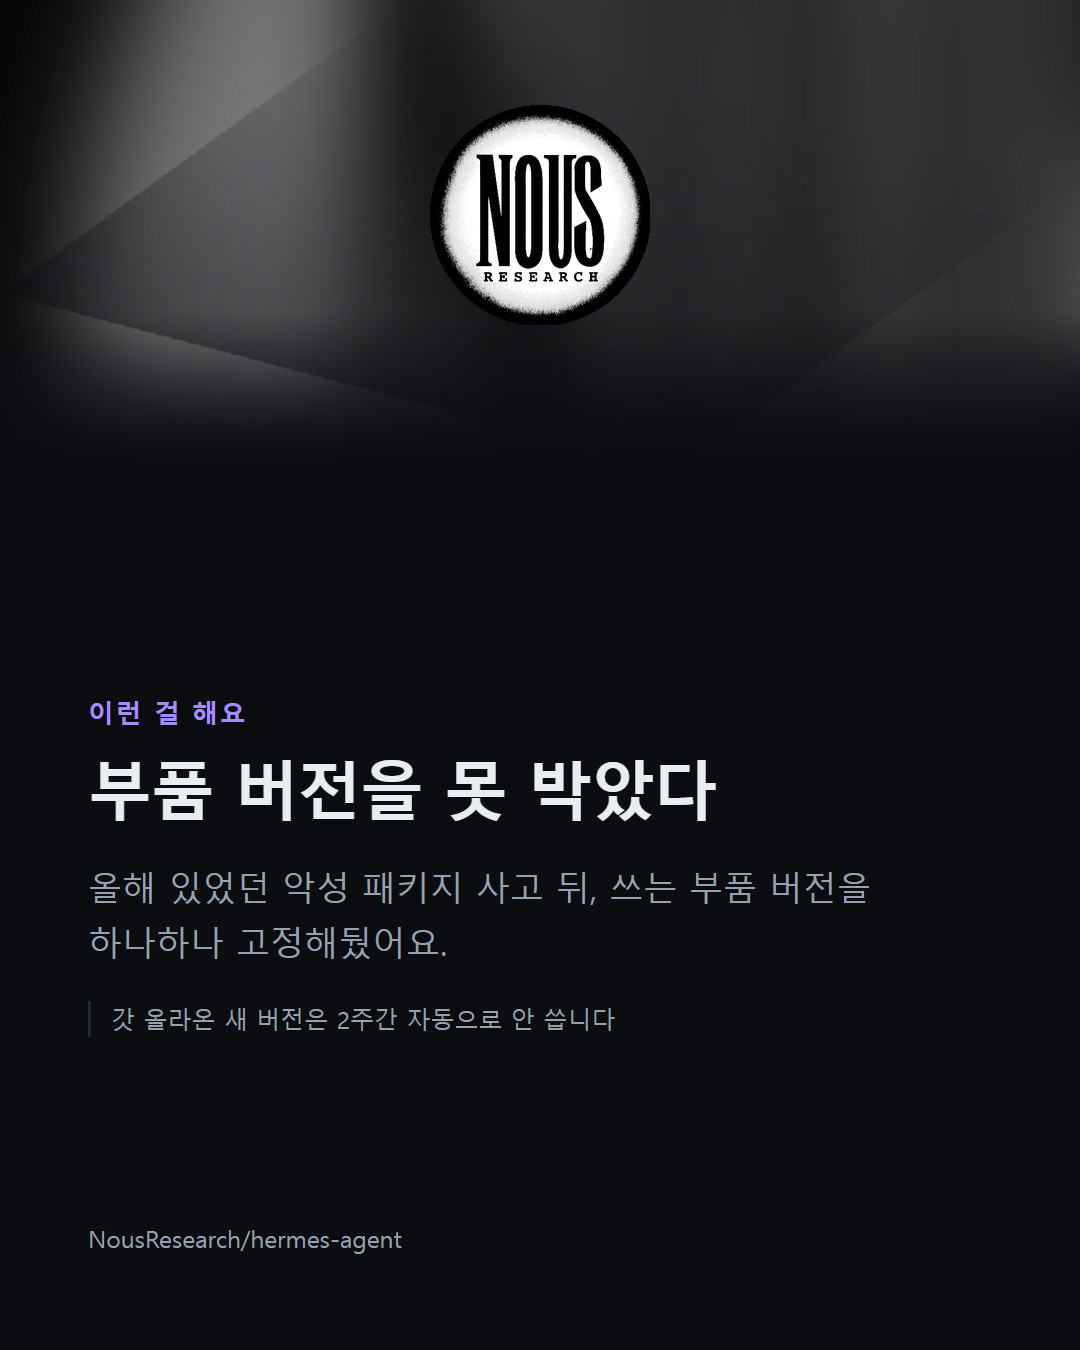
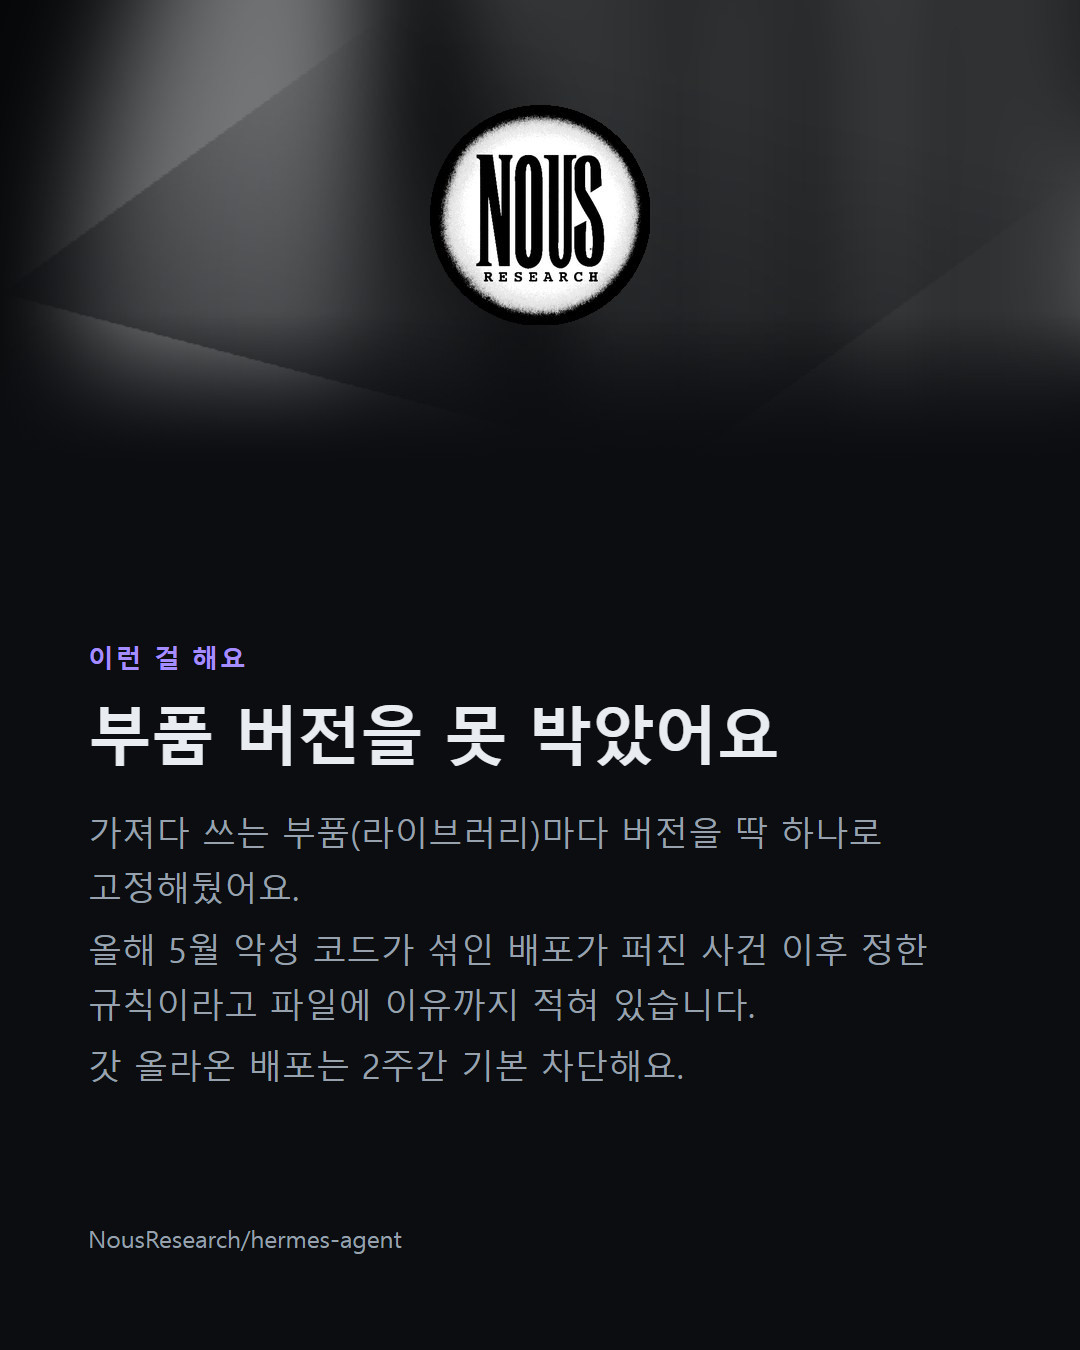
fix(render): 본문을 문장 단위로 줄바꿈하고 분량 하한을 도입
두 문제가 연결돼 있었다. 본문이 한두 문장뿐이라 카드가 휑했고, 그 짧은 두
문장이 한 줄에 걸치면서 뒤 문장이 줄 끝에서 시작해 어정쩡하게 잘렸다
("…들어갔어요. 웹 검색은" 에서 줄바꿈).

줄바꿈: 문장마다 블록을 준다. 긴 문장은 자기 블록 안에서 자연스럽게 감기고
다음 문장은 항상 새 줄에서 시작한다. 분리할 때 앞 글자가 숫자면 자르지 않는다 —
v0.20.4 나 23.4만 의 소수점에서 끊기면 숫자가 갈라진다.

분량: 상한(90자)이 문제가 아니라 하한이 없어서 짧았다. 85~150자, 2~3문장으로
바꾸고 프롬프트와 검증기 양쪽에 넣었다. 커버는 하한에서 제외한다.

결과: 전 카드가 100~128자, 2~3문장. 렌더 경고 0건.

테스트 155개 통과 (문장 분리 7개 포함 — 소수점 오분리 회귀 방지).

Changed region(s): [[0.0611, 0.4667, 0.8556, 0.8089]]

diff --git a/agent/compose.py b/agent/compose.py
@@ -70,6 +70,10 @@ SYSTEM_PROMPT = """\
 6. **말투는 친구에게 설명하듯.** "~한다" 보다 "~해요/~합니다" 가 낫고,
    질문을 던져도 좋다. 다만 호들갑은 떨지 마라.
 
+7. **본문은 2~3문장으로 채워라.** 한 문장만 쓰면 카드가 휑하고 설명도 부족하다.
+   보통 "무엇인지" 한 문장, "그래서 뭐가 좋은지/왜 그런지" 한두 문장이면 된다.
+   다만 채우려고 같은 말을 반복하거나 없는 사실을 만들지는 마라.
+
 ## 쉽게 쓰되 틀리게 쓰지 마라
 
 이게 제일 중요하다. 쉽게 만들려고 **사실을 바꾸거나 지어내면 안 된다.**
@@ -117,7 +121,8 @@ async def _run_async(config: Config, run_date: str, dry_run: bool) -> CardDeckFi
     cfg = config.section("compose")
 
     max_title = int(cfg.get("max_title_chars", 24))
-    max_body = int(cfg.get("max_body_chars", 90))
+    min_body = int(cfg.get("min_body_chars", 85))
+    max_body = int(cfg.get("max_body_chars", 150))
     max_tags = int(cfg.get("max_hashtags", 30))
     max_code_lines = int(cfg.get("max_code_lines", 3))
     max_code_chars = int(cfg.get("max_code_line_chars", 52))
@@ -129,7 +134,8 @@ async def _run_async(config: Config, run_date: str, dry_run: bool) -> CardDeckFi
         log.warning("근거 부족으로 제외된 카드: %s", ", ".join(dropped))
 
     base_prompt = _build_prompt(
-        research, roles, max_title, max_body, max_tags, max_code_lines, max_code_chars, tone
+        research, roles, max_title, min_body, max_body, max_tags,
+        max_code_lines, max_code_chars, tone
     )
 
     feedback = ""
@@ -150,7 +156,8 @@ async def _run_async(config: Config, run_date: str, dry_run: bool) -> CardDeckFi
             log.info("자동 보정: %s", note)
 
         violations = _validate(
-            payload, roles, max_title, max_body, max_tags, max_code_lines, max_code_chars
+            payload, roles, max_title, max_body, max_tags,
+            max_code_lines, max_code_chars, min_body
         )
         if not violations:
             log.info("원고 검증 통과 (시도 %d회, $%.4f)", attempt, total_cost)
@@ -230,6 +237,7 @@ def _build_prompt(
     research: ResearchFile,
     roles: list[str],
     max_title: int,
+    min_body: int,
     max_body: int,
     max_tags: int,
     max_code_lines: int,
@@ -272,7 +280,8 @@ def _build_prompt(
 
 ## 하드 제약
 - title: {max_title}자 이하 (공백 포함)
-- body: {max_body}자 이하 (공백 포함)
+- body: **{min_body}~{max_body}자** (공백 포함). 2~3문장으로 채운다.
+  한 문장으로 끝내지 마라 — 카드가 휑해 보이고 설명도 부족하다.
 - code 는 quickstart 카드에만. {max_code_lines}줄 이하, 줄당 {max_code_chars}자 이하
   각 줄은 그 자체로 완전한 명령이어야 한다. 한 명령을 쪼개지 마라.
 - caption: {CAPTION_LIMIT}자 이하, 해시태그 미포함
@@ -387,6 +396,7 @@ def _validate(
     max_tags: int,
     max_code_lines: int = 3,
     max_code_line_chars: int = 52,
+    min_body: int = 0,
 ) -> list[str]:
     """위반을 사람이 읽을 수 있는 문장으로 모은다. 그대로 모델에 되돌려준다."""
     problems: list[str] = []
@@ -407,6 +417,11 @@ def _validate(
         if len(card.body) > max_body:
             problems.append(
                 f"{where} body 가 {len(card.body)}자입니다 ({max_body}자 이하로 줄이세요)."
+            )
+        elif min_body and expected_role != "cover" and 0 < len(card.body) < min_body:
+            problems.append(
+                f"{where} body 가 {len(card.body)}자로 너무 짧습니다 "
+                f"({min_body}자 이상, 2~3문장). 한 문장으로 끝내지 마세요."
             )
         if not card.title.strip():
             problems.append(f"{where} title 이 비어 있습니다.")

diff --git a/tests/test_render.py b/tests/test_render.py
@@ -202,3 +202,37 @@ class TestNoPager:
         source = (paths.ROOT / "templates" / "card.html.j2").read_text(encoding="utf-8")
         assert "pager" not in source
         assert "class=\"dot" not in source
+
+
+class TestSentenceSplitting:
+    """한 줄에 두 문장이 걸치면 뒤 문장이 줄 끝에서 시작해 어정쩡하게 잘린다."""
+
+    def test_splits_on_sentence_end(self):
+        out = render_mod.split_sentences("수정 700건이 들어갔어요. 웹 검색도 됩니다.")
+        assert out == ["수정 700건이 들어갔어요.", "웹 검색도 됩니다."]
+
+    @pytest.mark.parametrize(
+        "text",
+        [
+            "v0.20.4 이후 하루 만에 들어갔어요.",   # 버전 번호의 점
+            "별 23.4만 개를 받았습니다.",           # 소수점
+        ],
+    )
+    def test_does_not_split_on_decimal_points(self, text):
+        """소수점에서 끊기면 '23.' / '4만 개' 처럼 숫자가 갈라진다."""
+        assert render_mod.split_sentences(text) == [text]
+
+    def test_handles_question_and_exclamation(self):
+        out = render_mod.split_sentences("이런 적 있죠? 요령이 사라집니다! 그래서 만들었어요.")
+        assert len(out) == 3
+
+    def test_single_sentence_stays_one_block(self):
+        assert render_mod.split_sentences("한 문장뿐입니다.") == ["한 문장뿐입니다."]
+
+    def test_empty_body_yields_nothing(self):
+        assert render_mod.split_sentences("") == []
+        assert render_mod.split_sentences("   ") == []
+
+    def test_trailing_sentence_without_period_survives(self):
+        out = render_mod.split_sentences("첫 문장입니다. 마침표 없는 끝")
+        assert out == ["첫 문장입니다.", "마침표 없는 끝"]

diff --git a/agent/render.py b/agent/render.py
@@ -14,6 +14,7 @@ from __future__ import annotations
 import base64
 import io
 import logging
+import re
 from datetime import datetime, timezone
 from pathlib import Path
 from typing import Any
@@ -58,6 +59,24 @@ OVERFLOW_JS = """
 
 class RenderError(RuntimeError):
     pass
+
+
+# 문장 경계: 마침표·물음표·느낌표 뒤 공백, 다만 **앞 글자가 숫자면 자르지 않는다.**
+# "v0.20.4 이후" 나 "23.4만 개" 의 소수점에서 끊기는 것을 막기 위해서다.
+# 뒤 글자는 한글·대문자·여는 따옴표여야 한다 — 문장이 실제로 시작하는 모양.
+_SENTENCE_BREAK = re.compile(r'(?<=[^0-9\s][.!?])\s+(?=[가-힣A-Z"\'(])')
+
+
+def split_sentences(text: str) -> list[str]:
+    """본문을 문장 단위로 나눈다.
+
+    한 줄에 두 문장이 걸치면 뒤 문장이 줄 끝에서 시작해 어정쩡하게 잘린다.
+    문장마다 블록을 주면 그 일이 생기지 않는다 — 긴 문장은 자기 블록 안에서
+    자연스럽게 줄바꿈되고, 다음 문장은 항상 새 줄에서 시작한다.
+    """
+    if not text.strip():
+        return []
+    return [s.strip() for s in _SENTENCE_BREAK.split(text.strip()) if s.strip()]
 
 
 def eyebrow_for(role: str, title: str) -> str:
@@ -196,6 +215,7 @@ def _render_card(
             tokens_css=tokens_css,
             font_uri=font_uri,
             eyebrow=eyebrow_for(card.role, card.title),
+            body_sentences=split_sentences(card.body),
             star_badge=star_badge,
         )
         page.set_content(html, wait_until="load")

diff --git a/posts/2026-08-23-nousresearch__hermes-agent/caption.md b/posts/2026-08-23-nousresearch__hermes-agent/caption.md
@@ -1,16 +1,14 @@
-쓸수록 똑똑해진다는 AI 비서, hermes-agent 이야기예요.
+터미널에서도 메신저에서도 같은 AI 비서를 부르는 도구, hermes-agent를 소개합니다.
 
-보통 AI에게 요령을 알려줘도 창을 닫으면 그걸로 끝이죠. 이 프로젝트는 그 부분을 정면으로 노렸어요. 경험에서 요령을 만들어 저장하고, 기억을 정리하고, 지난 대화를 다시 찾아보는 기능이 각각 따로 만들어져 있습니다(다만 그게 얼마나 잘 작동하는지까지는 확인하지 못했어요. 기능이 실제로 존재한다는 것까지만 확인했습니다).
+가장 큰 특징은 '배운 걸 기억한다'는 점이에요. 일을 하면서 얻은 요령을 스스로 적어두고, 다음에 비슷한 일이 오면 다시 꺼내 씁니다. 지난 대화를 찾아보는 기능도 있어요. 실제로 기억을 관리하는 코드가 따로 큼직하게 들어가 있습니다(다만 그 성능이 얼마나 좋은지까지는 확인하지 못했어요).
 
-또 하나는 "노트북 앞에 앉아 있어야만 쓸 수 있다"는 전제를 깼다는 점이에요. 터미널(글자로 명령하는 검은 창)뿐 아니라 메신저에서도 같은 대화를 이어갈 수 있게 별도의 연결 프로그램이 들어 있습니다.
+두 번째는 '노트북 앞이 전제가 아니다'는 점. 메신저 연결을 맡는 부분이 별도 프로그램으로 떠 있어서 텔레그램 같은 앱에서도 대화를 이어갈 수 있고, 원하면 클라우드에서 대신 돌릴 수도 있습니다. 쓰는 AI 모델도 여러 회사 것 중에 골라 갈아 끼울 수 있어요.
 
-요즘 개발 속도가 좀 비정상적입니다. 하루 남짓한 사이에 수정 700여 건이 들어간 릴리스가 있을 정도예요. 그 덕에 열쇠(API 키) 없이 바로 되는 무료 웹 검색, 더 편해진 명령 화면 같은 게 붙었습니다. 대신 부작용도 솔직히 말씀드릴게요 — 업데이트 직후 멀쩡하던 기능이 깨졌다는 신고가 꽤 올라와 있고, 무엇이 바뀌었는지 정리한 공식 노트는 아직 뒤로 밀려 있는 상태예요. 윈도우와 안드로이드는 특히 더 삐걱입니다.
+세 번째는 보안 정책. 가져다 쓰는 부품(라이브러리)의 버전을 딱 하나로 고정해두고, 갓 올라온 배포는 2주간 기본으로 막습니다. 올해 5월 악성 코드가 섞인 배포가 퍼진 사건 이후 정한 규칙이라고 파일에 이유까지 적어놨어요.
 
-칭찬하고 싶은 지점도 있어요. 올해 실제로 있었던 악성 패키지 사고 이후, 이 프로젝트는 사용하는 부품(라이브러리)의 버전을 하나하나 못 박아뒀습니다. 새로 올라온 버전은 2주간 자동으로 쓰지 않게도 해뒀고요. "빨리 만들되 안전하게"를 나름의 방식으로 지키려는 흔적이라 인상적이었어요.
+단점도 있습니다. 개발 속도가 워낙 빨라서(최근 배포판 하나에 하루 남짓 동안 수정 746건) 업데이트 직후 뭔가 깨졌다는 제보가 여럿 올라와 있어요. 어떤 게 바뀌었는지 정리한 변경 안내도 아직 미뤄진 상태입니다. 안정성이 최우선이라면 조금 더 지켜보는 게 좋아요.
 
-주소: github.com/NousResearch/hermes-agent
-별 23만 개 · 파이썬 · MIT 라이선스(누구나 무료로 쓰고 고칠 수 있는 가장 느슨한 조건)
+github.com/NousResearch/hermes-agent
+별 23만 개 (오늘 +443) · 파이썬 · MIT 라이선스(가져다 쓰고 고쳐도 되는 조건)
 
-지금 당장 안 써도 좋아요. 저장해두고 "AI가 기억을 쌓는다는 게 뭘까" 궁금해질 때 한 번 열어보세요.
-
-#개발자 #코딩입문 #AI에이전트 #깃허브 #오픈소스 #파이썬 #hermesagent #NousResearch #AI도구 #터미널 #코딩공부 #개발공부 #MIT라이선스 #AI비서 #IT트렌드
+#개발자 #깃허브 #오픈소스 #AI #인공지능 #코딩 #파이썬 #python #개발공부 #AI에이전트 #터미널 #CLI #프로그래밍 #코딩입문 #개발자성장 #github #MIT라이선스 #AI도구 #자동화 #NousResearch

diff --git a/SPEC.md b/SPEC.md
@@ -1,6 +1,6 @@
 # GitHub 핫 레포 → 인스타그램 카드뉴스 자동화 에이전트 기능명세서
 
-- 문서 버전: v2.0
+- 문서 버전: v2.1
 - 작성일: 2026-08-23
 - 상태: M1·M2·M3 구현 완료, M4·M5 미착수
 - 변경: v1.1 — 카드 디자인 원본을 피그마로 두는 `design-sync` 흐름 추가 (7.1, 7.2)
@@ -13,6 +13,7 @@
 - 변경: v1.8 — CI 무인화 범위를 수집·선정까지로 확정 (9.0), 로컬 일괄 실행 명령 run 추가
 - 변경: v1.9 — API 자동 발행 취소, 수동 발행으로 전환 (M5 폐기, Pages·토큰 갱신·워크플로 B/C 제거)
 - 변경: v2.0 — 타겟 독자를 입문자로 변경 (톤 재정의, architecture 카드 제거·what_is_it 추가, 난이도 게이트 신설)
+- 변경: v2.1 — 본문을 문장 단위로 줄바꿈, 분량 하한(85자·2~3문장) 도입
 
 ---
 
@@ -465,12 +466,18 @@ options = ClaudeAgentOptions(
 | 요소 | 상한 | 근거 |
 |---|---|---|
 | 카드 제목 | 24자 | 1080px 폭에서 2줄 이내 |
-| 카드 본문 | 90자 | 3~4줄 이내 |
+| 카드 본문 | **85~150자** | 2~3문장. 하한이 없으면 한 문장으로 끝나 카드가 휑해진다 |
 | 코드 블록(카드 8) | 3줄, 줄당 52자 | 27px 모노스페이스 실측. 42자는 과하게 좁아 모델이 URL 을 잘랐다 |
 | 캡션 전체 | 2,200자 | 인스타그램 캡션 제한 |
 | 해시태그 | 30개 | 인스타그램 제한 |
 
 이 상한은 **생성 시점에 프롬프트로 지시하고, 검증 시점에 다시 강제한다.** 렌더링 단계에서 넘치는 것을 발견하면 이미 늦다.
+
+**본문은 문장 단위로 줄을 나눠 렌더한다.** 한 줄에 두 문장이 걸치면 뒤 문장이
+줄 끝에서 시작해 어정쩡하게 잘린다("…들어갔어요. 웹 검색은" 에서 줄바꿈). 문장마다
+블록을 주면 긴 문장은 자기 블록 안에서 자연스럽게 감기고 다음 문장은 항상 새 줄에서
+시작한다. 분리 시 **앞 글자가 숫자면 자르지 않는다** — `v0.20.4`, `23.4만` 의
+소수점에서 끊기면 숫자가 갈라진다.
 
 **code 의 각 줄은 그 자체로 완전한 명령이어야 한다.** 카드는 줄마다 `$` 프롬프트를
 붙이므로, 길이 때문에 한 명령을 쪼개면 별개의 명령 두 개처럼 읽힌다 — 이는 미관이 아니라
